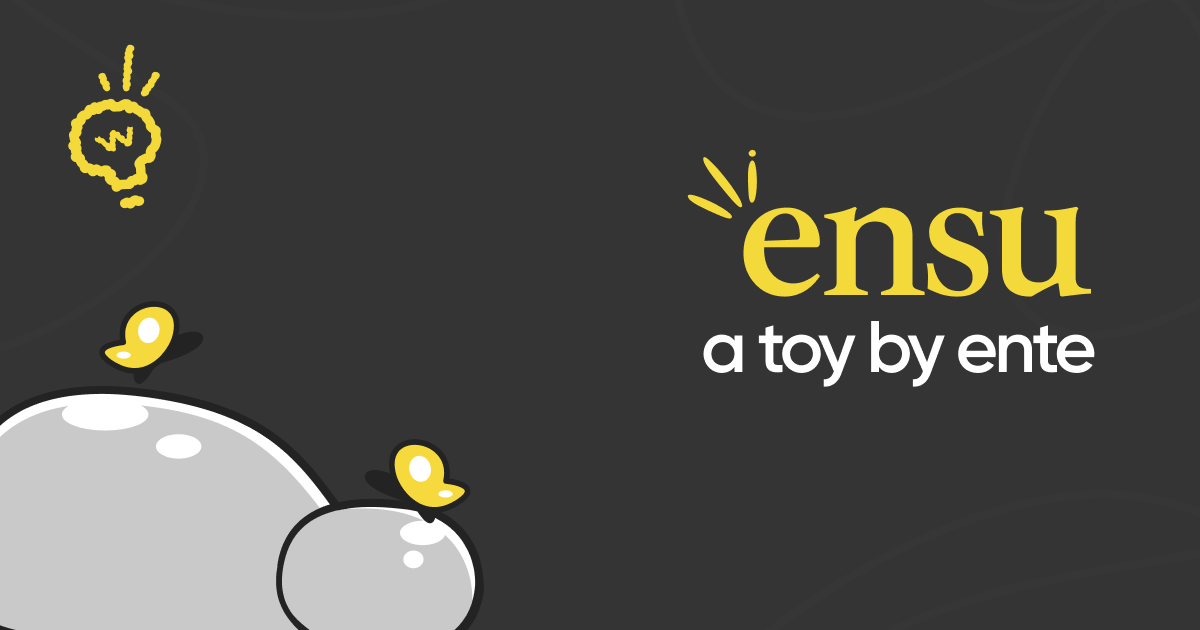
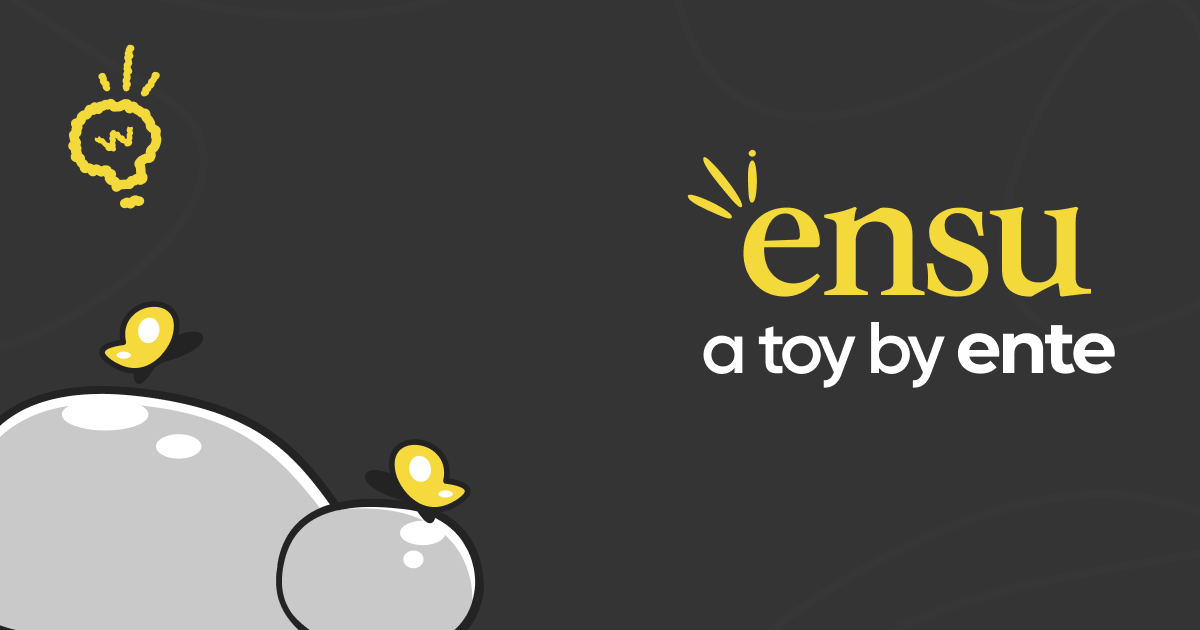
Update gh-pages from main

Changed region(s): [[0.74, 0.5127, 0.925, 0.6032], [0.6475, 0.5429, 0.7092, 0.6032], [0.5858, 0.5429, 0.6167, 0.6032]]

diff --git a/styles.css b/styles.css
@@ -5,7 +5,7 @@
   --rule: #d4d0c8;
   --code-bg: #f0ebe4;
   --sent: #555;
-  --accent: #4a6741;
+  --accent: #9A7E0A;
 }
 
 @media (prefers-color-scheme: dark) {
@@ -16,7 +16,7 @@
     --rule: #2a2a2a;
     --code-bg: #1e1e1e;
     --sent: #999;
-    --accent: #7a9f70;
+    --accent: #FFD700;
   }
 }
 
@@ -77,7 +77,7 @@ body {
   font-family: 'Cormorant Garamond', serif;
   font-size: 24px;
   font-weight: 400;
-  letter-spacing: 0.15em;
+  letter-spacing: 0.05em;
   margin: 0;
   line-height: 0.75;
   transition: font-size 0.2s ease;
@@ -96,19 +96,33 @@ body {
 }
 
 .logo-link h1 {
-  color: #FFD700;
+  color: #B8960C;
 }
 
 .logo-link:hover h1 {
-  color: #FFC700;
+  color: #9A7E0A;
+}
+
+@media (prefers-color-scheme: dark) {
+  .logo-link h1 {
+    color: #FFD700;
+  }
+
+  .logo-link:hover h1 {
+    color: #FFC700;
+  }
 }
 
 .by-ente {
   font-family: 'Gilroy', 'Gilroy-SemiBold', -apple-system, BlinkMacSystemFont, 'Segoe UI', sans-serif;
-  font-weight: 600;
+  font-weight: 500;
   font-size: 16px;
   color: var(--muted);
   margin-top: -4px;
+}
+
+.ente-brand {
+  font-weight: 700;
 }
 
 .logo-link:hover .by-ente {
@@ -241,7 +255,7 @@ body {
 }
 
 .provider-indicator.browser {
-  background: rgba(74, 103, 65, 0.15);
+  background: rgba(154, 126, 10, 0.15);
   color: var(--accent);
 }
 
@@ -342,7 +356,7 @@ body {
 }
 
 .picker-option .model-badge.cached {
-  background: rgba(74, 103, 65, 0.15);
+  background: rgba(154, 126, 10, 0.15);
   color: var(--accent);
 }
 

diff --git a/index.html b/index.html
@@ -35,7 +35,7 @@
     <header class="masthead">
       <a href="https://ente.io/?utm_source=ensu" target="_blank" class="logo-link">
         <h1>ensu</h1>
-        <span class="by-ente">a toy by ente</span>
+        <span class="by-ente">a toy by <span class="ente-brand">ente</span></span>
       </a>
       <div class="masthead-controls">
         <button class="picker-btn" id="sessionBtn">New Chat</button>
